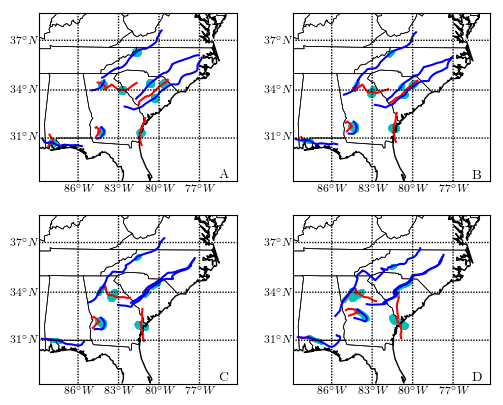
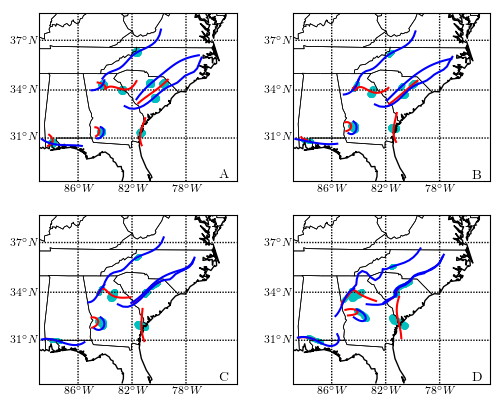
updates

diff --git a/plot_OECS+tracers_times_4paper.py b/plot_OECS+tracers_times_4paper.py
@@ -6,6 +6,8 @@ import matplotlib.pyplot as plt
 import calendar
 import time
 from mpl_toolkits.basemap import Basemap
+#from scipy.interpolate import spline
+from scipy import interpolate
 plt.close('all')
 
 matplotlib.rcParams['text.usetex']=True
@@ -19,8 +21,8 @@ marker_size = 4
 marker_color = 'c'
 xdim = 405
 ydim = 325
-
-
+smoothing_coef = 0.1
+interp_number = 20
 figwidth = 6
 FigSize=(figwidth, ydim/xdim*figwidth)
 
@@ -100,92 +102,124 @@ for r in [8,18,19,53,56,60]:
 #cs=m.contourf(lon,lat,ftle[-t,:,:],levels=np.linspace(ftle[-t,:,:].min(axis=None),ftle[-t,:,:].max(axis=None),301),latlon=True)
 #plt.title("{0}".format(time[-t]),fontsize=18)
 parallels = np.arange(round(lat_min,0),lat_max+2,3)
-meridians = np.arange(round(lon_max,0),lon_min-2,-3)
+meridians = np.arange(round(lon_max,0),lon_min-2,-4)
 
 plt.figure(figsize=FigSize)
 plt.subplot(221)
 t=0
-for i in range(len(repelling_ridges_lat)):
-    x = [elem for elem in repelling_ridges_lon[i][:,t].data if elem < 99999]
-    y = [elem for elem in repelling_ridges_lat[i][:,t].data if elem < 99999]
-    #m.plot(repelling_ridges_lon[i][:,t],repelling_ridges_lat[i][:,t],c='r',latlon=True)
-    m.plot(x,y,c='r',latlon=True)
-for i in range(len(attracting_ridges_lat)):
-    x = [elem for elem in attracting_ridges_lon[i][:,t].data if elem < 99999]
-    y = [elem for elem in attracting_ridges_lat[i][:,t].data if elem < 99999]
-    #m.plot(attracting_ridges_lon[i][:,t],attracting_ridges_lat[i][:,t],c='b',latlon=True)
-    m.plot(x,y,c='b',latlon=True)
-m.scatter(t_lon[:,t],t_lat[:,t],color=marker_color,s=marker_size,latlon=True)
 m.drawcoastlines()
 m.drawstates()
+#m.drawparallels(parallels,labels=[1,0,0,0],**tickfont,linewidth=0.0)
+#m.drawmeridians(meridians,labels=[0,0,0,1],**tickfont,linewidth=0.0)
 m.drawparallels(parallels,labels=[1,0,0,0],**tickfont)
 m.drawmeridians(meridians,labels=[0,0,0,1],**tickfont)
 plt.yticks(**tickfont)
 plt.xticks(**tickfont)
+for i in range(len(repelling_ridges_lat)):
+    x = [elem for elem in repelling_ridges_lon[i][:,t].data if elem < 99999]
+    y = [elem for elem in repelling_ridges_lat[i][:,t].data if elem < 99999]
+    tck, u = interpolate.splprep([x, y], u=None, s=smoothing_coef) 
+    u_new = np.linspace(u.min(), u.max(), interp_number)
+    xnew, ynew = interpolate.splev(u_new, tck, der=0)
+    m.plot(xnew,ynew,c='r',latlon=True)    
+    #m.plot(x,y,c='r',latlon=True)
+for i in range(len(attracting_ridges_lat)):
+    x = [elem for elem in attracting_ridges_lon[i][:,t].data if elem < 99999]
+    y = [elem for elem in attracting_ridges_lat[i][:,t].data if elem < 99999]
+    tck, u = interpolate.splprep([x, y], u=None, s=smoothing_coef) 
+    u_new = np.linspace(u.min(), u.max(), interp_number)
+    xnew, ynew = interpolate.splev(u_new, tck, der=0)
+    m.plot(xnew,ynew,c='b',latlon=True)
+    #m.plot(x,y,c='b',latlon=True)
+m.scatter(t_lon[:,t],t_lat[:,t],color=marker_color,s=marker_size,latlon=True)
 plt.annotate('A', xy=(0.91, 0.02), xycoords='axes fraction')
 
 
 plt.subplot(222)
 t=12
-for i in range(len(repelling_ridges_lat)):
-    x = [elem for elem in repelling_ridges_lon[i][:,t].data if elem < 99999]
-    y = [elem for elem in repelling_ridges_lat[i][:,t].data if elem < 99999]
-    #m.plot(repelling_ridges_lon[i][:,t],repelling_ridges_lat[i][:,t],c='r',latlon=True)
-    m.plot(x,y,c='r',latlon=True)
-for i in range(len(attracting_ridges_lat)):
-    x = [elem for elem in attracting_ridges_lon[i][:,t].data if elem < 99999]
-    y = [elem for elem in attracting_ridges_lat[i][:,t].data if elem < 99999]
-    #m.plot(attracting_ridges_lon[i][:,t],attracting_ridges_lat[i][:,t],c='b',latlon=True)
-    m.plot(x,y,c='b',latlon=True)
-m.scatter(t_lon[:,t],t_lat[:,t],color=marker_color,s=marker_size,latlon=True)
 m.drawcoastlines()
 m.drawstates()
+#m.drawparallels(parallels,labels=[1,0,0,0],**tickfont,linewidth=0.0)
+#m.drawmeridians(meridians,labels=[0,0,0,1],**tickfont,linewidth=0.0)
 m.drawparallels(parallels,labels=[1,0,0,0],**tickfont)
 m.drawmeridians(meridians,labels=[0,0,0,1],**tickfont)
 plt.yticks(**tickfont)
 plt.xticks(**tickfont)
+for i in range(len(repelling_ridges_lat)):
+    x = [elem for elem in repelling_ridges_lon[i][:,t].data if elem < 99999]
+    y = [elem for elem in repelling_ridges_lat[i][:,t].data if elem < 99999]
+    tck, u = interpolate.splprep([x, y], u=None, s=smoothing_coef) 
+    u_new = np.linspace(u.min(), u.max(), interp_number)
+    xnew, ynew = interpolate.splev(u_new, tck, der=0)
+    m.plot(xnew,ynew,c='r',latlon=True)    
+    #m.plot(x,y,c='r',latlon=True)
+for i in range(len(attracting_ridges_lat)):
+    x = [elem for elem in attracting_ridges_lon[i][:,t].data if elem < 99999]
+    y = [elem for elem in attracting_ridges_lat[i][:,t].data if elem < 99999]
+    tck, u = interpolate.splprep([x, y], u=None, s=smoothing_coef) 
+    u_new = np.linspace(u.min(), u.max(), interp_number)
+    xnew, ynew = interpolate.splev(u_new, tck, der=0)
+    m.plot(xnew,ynew,c='b',latlon=True)
+    #m.plot(x,y,c='b',latlon=True)
+m.scatter(t_lon[:,t],t_lat[:,t],color=marker_color,s=marker_size,latlon=True)
 plt.annotate('B', xy=(0.91, 0.02), xycoords='axes fraction')
 
 plt.subplot(223)
 t=24
-for i in range(len(repelling_ridges_lat)):
-    x = [elem for elem in repelling_ridges_lon[i][:,t].data if elem < 99999]
-    y = [elem for elem in repelling_ridges_lat[i][:,t].data if elem < 99999]
-    #m.plot(repelling_ridges_lon[i][:,t],repelling_ridges_lat[i][:,t],c='r',latlon=True)
-    m.plot(x,y,c='r',latlon=True)
-for i in range(len(attracting_ridges_lat)):
-    x = [elem for elem in attracting_ridges_lon[i][:,t].data if elem < 99999]
-    y = [elem for elem in attracting_ridges_lat[i][:,t].data if elem < 99999]
-    #m.plot(attracting_ridges_lon[i][:,t],attracting_ridges_lat[i][:,t],c='b',latlon=True)
-    m.plot(x,y,c='b',latlon=True)
-m.scatter(t_lon[:,t],t_lat[:,t],color=marker_color,s=marker_size,latlon=True)
 m.drawcoastlines()
 m.drawstates()
+#m.drawparallels(parallels,labels=[1,0,0,0],**tickfont,linewidth=0.0)
+#m.drawmeridians(meridians,labels=[0,0,0,1],**tickfont,linewidth=0.0)
 m.drawparallels(parallels,labels=[1,0,0,0],**tickfont)
 m.drawmeridians(meridians,labels=[0,0,0,1],**tickfont)
 plt.yticks(**tickfont)
 plt.xticks(**tickfont)
+for i in range(len(repelling_ridges_lat)):
+    x = [elem for elem in repelling_ridges_lon[i][:,t].data if elem < 99999]
+    y = [elem for elem in repelling_ridges_lat[i][:,t].data if elem < 99999]
+    tck, u = interpolate.splprep([x, y], u=None, s=smoothing_coef) 
+    u_new = np.linspace(u.min(), u.max(), interp_number)
+    xnew, ynew = interpolate.splev(u_new, tck, der=0)
+    m.plot(xnew,ynew,c='r',latlon=True)    
+    #m.plot(x,y,c='r',latlon=True)
+for i in range(len(attracting_ridges_lat)):
+    x = [elem for elem in attracting_ridges_lon[i][:,t].data if elem < 99999]
+    y = [elem for elem in attracting_ridges_lat[i][:,t].data if elem < 99999]
+    tck, u = interpolate.splprep([x, y], u=None, s=smoothing_coef) 
+    u_new = np.linspace(u.min(), u.max(), interp_number)
+    xnew, ynew = interpolate.splev(u_new, tck, der=0)
+    m.plot(xnew,ynew,c='b',latlon=True)
+    #m.plot(x,y,c='b',latlon=True)
+m.scatter(t_lon[:,t],t_lat[:,t],color=marker_color,s=marker_size,latlon=True)
 plt.annotate('C', xy=(0.91, 0.02), xycoords='axes fraction')
 
 plt.subplot(224)
 t=48
-for i in range(len(repelling_ridges_lat)):
-    x = [elem for elem in repelling_ridges_lon[i][:,t].data if elem < 99999]
-    y = [elem for elem in repelling_ridges_lat[i][:,t].data if elem < 99999]
-    #m.plot(repelling_ridges_lon[i][:,t],repelling_ridges_lat[i][:,t],c='r',latlon=True)
-    m.plot(x,y,c='r',latlon=True)
-for i in range(len(attracting_ridges_lat)):
-    x = [elem for elem in attracting_ridges_lon[i][:,t].data if elem < 99999]
-    y = [elem for elem in attracting_ridges_lat[i][:,t].data if elem < 99999]
-    #m.plot(attracting_ridges_lon[i][:,t],attracting_ridges_lat[i][:,t],c='b',latlon=True)
-    m.plot(x,y,c='b',latlon=True)
-m.scatter(t_lon[:,t],t_lat[:,t],color=marker_color,s=marker_size,latlon=True)
 m.drawcoastlines()
 m.drawstates()
+#m.drawparallels(parallels,labels=[1,0,0,0],**tickfont,linewidth=0.0)
+#m.drawmeridians(meridians,labels=[0,0,0,1],**tickfont,linewidth=0.0)
 m.drawparallels(parallels,labels=[1,0,0,0],**tickfont)
 m.drawmeridians(meridians,labels=[0,0,0,1],**tickfont)
 plt.yticks(**tickfont)
 plt.xticks(**tickfont)
+for i in range(len(repelling_ridges_lat)):
+    x = [elem for elem in repelling_ridges_lon[i][:,t].data if elem < 99999]
+    y = [elem for elem in repelling_ridges_lat[i][:,t].data if elem < 99999]
+    tck, u = interpolate.splprep([x, y], u=None, s=smoothing_coef) 
+    u_new = np.linspace(u.min(), u.max(), interp_number)
+    xnew, ynew = interpolate.splev(u_new, tck, der=0)
+    m.plot(xnew,ynew,c='r',latlon=True)    
+    #m.plot(x,y,c='r',latlon=True)
+for i in range(len(attracting_ridges_lat)):
+    x = [elem for elem in attracting_ridges_lon[i][:,t].data if elem < 99999]
+    y = [elem for elem in attracting_ridges_lat[i][:,t].data if elem < 99999]
+    tck, u = interpolate.splprep([x, y], u=None, s=smoothing_coef) 
+    u_new = np.linspace(u.min(), u.max(), interp_number)
+    xnew, ynew = interpolate.splev(u_new, tck, der=0)
+    m.plot(xnew,ynew,c='b',latlon=True)
+    #m.plot(x,y,c='b',latlon=True)
+m.scatter(t_lon[:,t],t_lat[:,t],color=marker_color,s=marker_size,latlon=True)
 plt.annotate('D', xy=(0.91, 0.02), xycoords='axes fraction')
 
 

diff --git a/plot_comparison_s1&ftle.py b/plot_comparison_s1&ftle.py
@@ -99,7 +99,7 @@ for i in range(ydim):
 plt.close('all')
 lev= 301
 parallels_spacing = 3
-meridian_spacing = -3
+meridian_spacing = -4
 lon_min = np.min(lon,axis=None)
 lon_max = np.max(lon,axis=None)
 lat_min = np.min(lat,axis=None)
